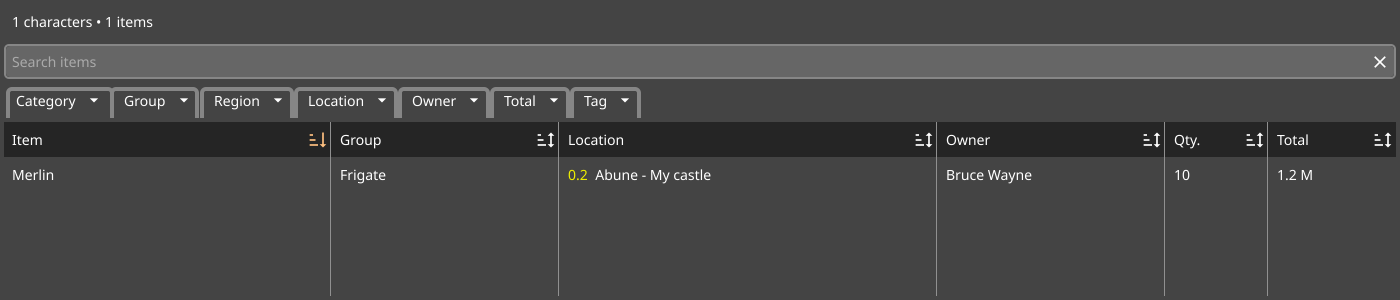
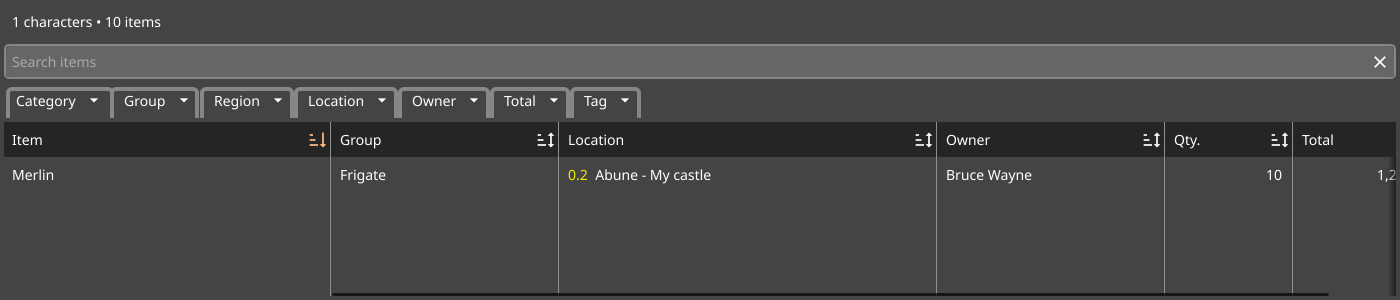
feat: show item quantities instead of row counts on assets page

diff --git a/internal/app/ui/assets.go b/internal/app/ui/assets.go
@@ -100,7 +100,7 @@ func newAssetRow(ca *app.CharacterAsset, assetCollection assetcollection.AssetCo
 		r.total.Set(ca.Price.ValueOrZero() * float64(ca.Quantity))
 	}
 	r.totalDisplay = r.total.StringFunc("?", func(v float64) string {
-		return ihumanize.Number(v, 1)
+		return humanize.FormatFloat(app.FloatFormat, v)
 	})
 	return r
 }
@@ -157,11 +157,11 @@ func newAssets(u *baseUI) *assets {
 	}, {
 		Col:   assetsColQuantity,
 		Label: "Qty.",
-		Width: 75,
+		Width: 100,
 	}, {
 		Col:   assetsColTotal,
 		Label: "Total",
-		Width: 100,
+		Width: 150,
 	}})
 	a := &assets{
 		columnSorter: headers.NewColumnSorter(assetsColItem, iwidget.SortAsc),
@@ -196,9 +196,13 @@ func newAssets(u *baseUI) *assets {
 				case assetsColOwner:
 					return iwidget.RichTextSegmentsFromText(r.characterName)
 				case assetsColQuantity:
-					return iwidget.RichTextSegmentsFromText(r.quantityDisplay)
+					return iwidget.RichTextSegmentsFromText(r.quantityDisplay, widget.RichTextStyle{
+						Alignment: fyne.TextAlignTrailing,
+					})
 				case assetsColTotal:
-					return iwidget.RichTextSegmentsFromText(r.totalDisplay)
+					return iwidget.RichTextSegmentsFromText(r.totalDisplay, widget.RichTextStyle{
+						Alignment: fyne.TextAlignTrailing,
+					})
 				}
 				return iwidget.RichTextSegmentsFromText("?")
 			},
@@ -447,27 +451,20 @@ func (a *assets) update() {
 	var t string
 	var i widget.Importance
 	characterCount := a.characterCount()
-	assets, hasData, err := a.fetchRows(a.u.services())
+	assets, quantity, total, err := a.fetchRows(a.u.services())
 	if err != nil {
 		slog.Error("Failed to refresh asset search data", "err", err)
 		t = "ERROR: " + a.u.humanizeError(err)
 		i = widget.DangerImportance
-	} else if !hasData {
-		t = "No data"
-		i = widget.LowImportance
 	} else if characterCount == 0 {
 		t = "No characters"
 		i = widget.LowImportance
 	} else {
-		t = fmt.Sprintf("%d characters • %s items", characterCount, ihumanize.Comma(len(assets)))
+		t = fmt.Sprintf("%d characters • %s items", characterCount, ihumanize.Comma(quantity))
 	}
 	if a.onUpdate != nil {
 		var s string
-		if hasData && err == nil {
-			var total float64
-			for _, a := range assets {
-				total += a.total.ValueOrZero()
-			}
+		if err == nil {
 			s = ihumanize.Number(total, 1)
 		}
 		a.onUpdate(s)
@@ -486,14 +483,14 @@ func (a *assets) update() {
 	})
 }
 
-func (*assets) fetchRows(s services) ([]assetRow, bool, error) {
+func (*assets) fetchRows(s services) ([]assetRow, int, float64, error) {
 	ctx := context.Background()
 	cc, err := s.cs.ListCharactersShort(ctx)
 	if err != nil {
-		return nil, false, err
+		return nil, 0, 0, err
 	}
 	if len(cc) == 0 {
-		return nil, false, nil
+		return nil, 0, 0, nil
 	}
 	characterNames := make(map[int32]string)
 	for _, o := range cc {
@@ -503,20 +500,22 @@ func (*assets) fetchRows(s services) ([]assetRow, bool, error) {
 	for _, c := range cc {
 		tags, err := s.cs.ListTagsForCharacter(ctx, c.ID)
 		if err != nil {
-			return nil, false, nil
+			return nil, 0, 0, nil
 		}
 		tagsPerCharacter[c.ID] = tags
 	}
 	assets, err := s.cs.ListAllAssets(ctx)
 	if err != nil {
-		return nil, false, err
+		return nil, 0, 0, err
 	}
 	locations, err := s.eus.ListLocations(ctx)
 	if err != nil {
-		return nil, false, err
+		return nil, 0, 0, err
 	}
 	assetCollection := assetcollection.New(assets, locations)
 	rows := make([]assetRow, len(assets))
+	var totalQuantity int
+	var totalPrice float64
 	for i, ca := range assets {
 		r := newAssetRow(ca, assetCollection, func(id int32) string {
 			return characterNames[id]
@@ -524,13 +523,20 @@ func (*assets) fetchRows(s services) ([]assetRow, bool, error) {
 		r.searchTarget = strings.ToLower(r.typeNameDisplay)
 		r.tags = tagsPerCharacter[ca.CharacterID]
 		rows[i] = r
+		totalQuantity += r.quantity
+		totalPrice += r.total.ValueOrZero()
 	}
-	return rows, true, nil
+	return rows, totalQuantity, totalPrice, nil
 }
 
 func (a *assets) updateFoundInfo() {
-	if c := len(a.rowsFiltered); c < len(a.rows) {
-		a.found.SetText(fmt.Sprintf("%s found", ihumanize.Comma(c)))
+	if len(a.rowsFiltered) < len(a.rows) {
+		var quantity int
+		for _, r := range a.rowsFiltered {
+			quantity += r.quantity
+		}
+		s := fmt.Sprintf("%s found", ihumanize.Comma(quantity))
+		a.found.SetText(s)
 		a.found.Show()
 	} else {
 		a.found.Hide()
